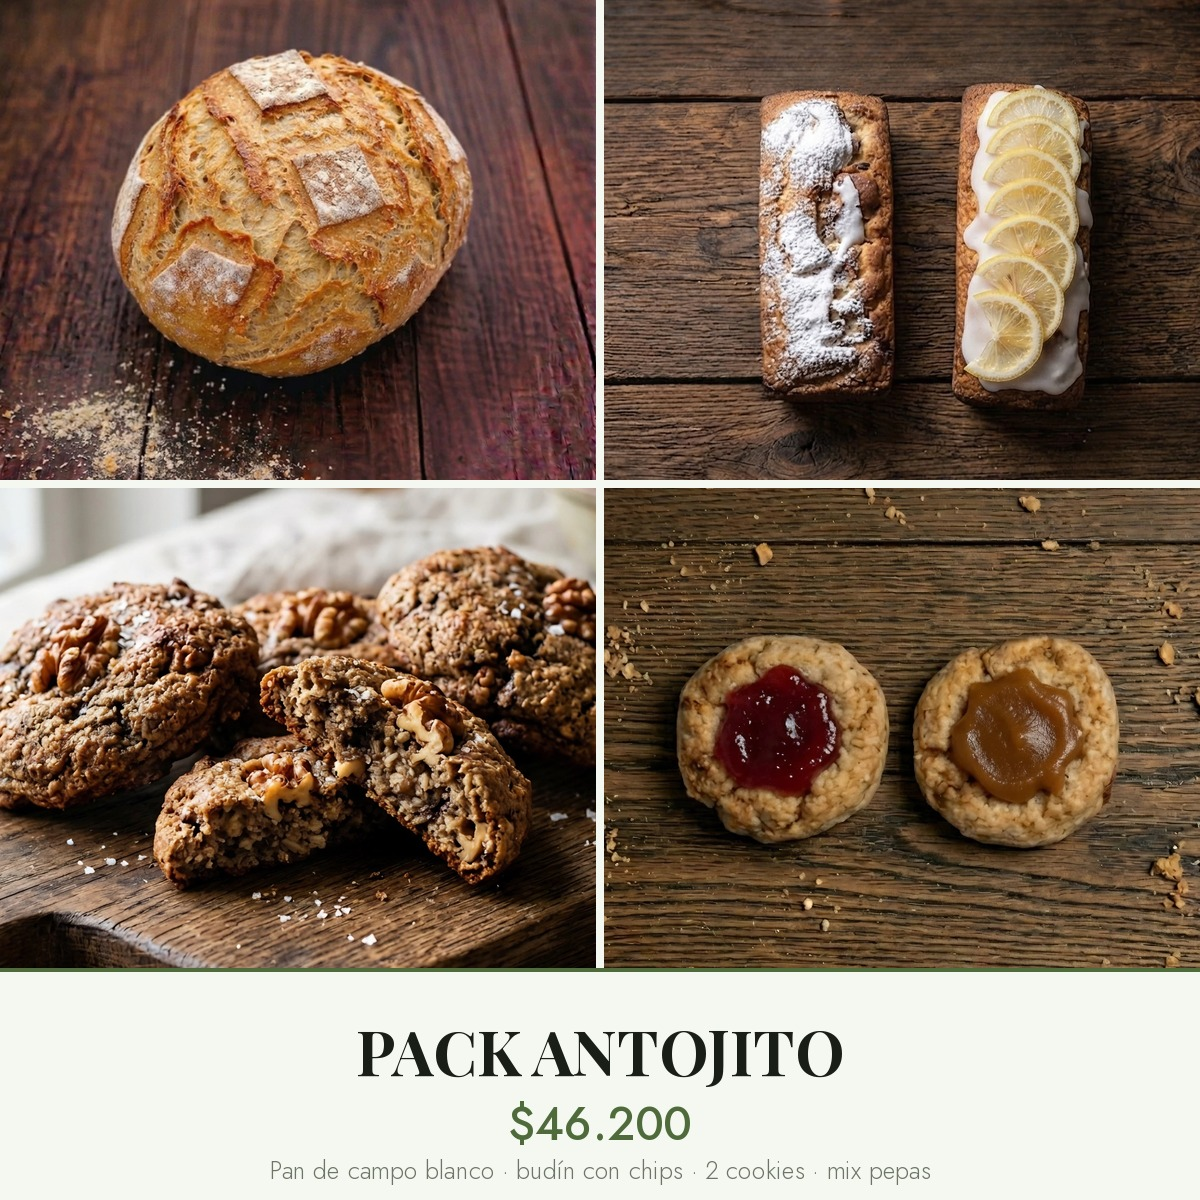
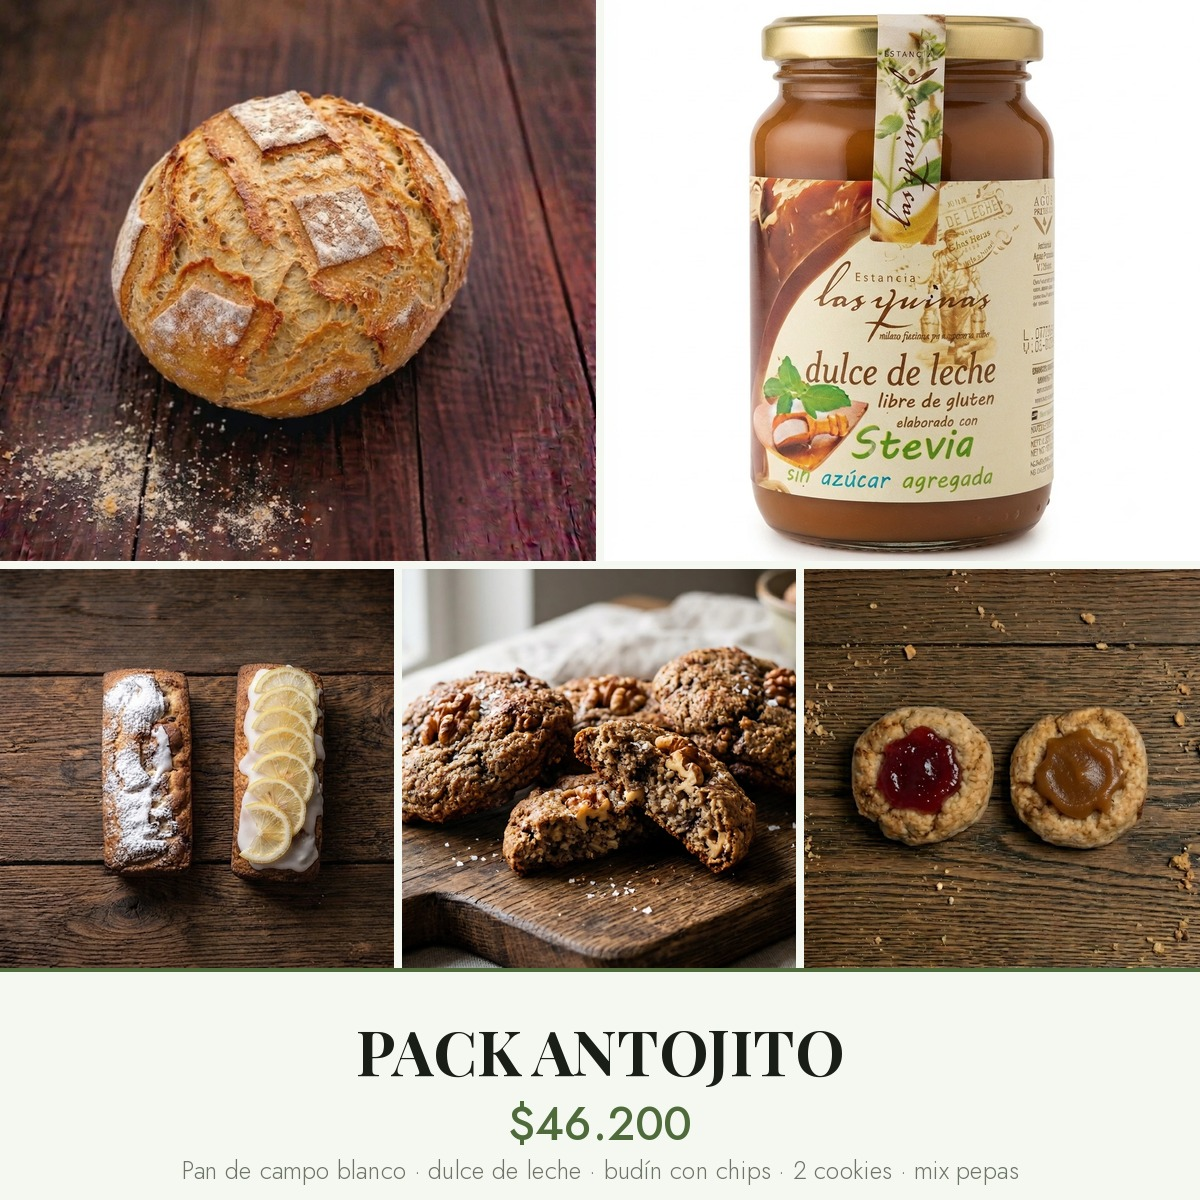
Completa las cinco fotos de los packs y detecta 23 productos agotados
Juan corrigio: los productos que faltaban estan publicados pero agotados,
y Tiendanube los oculta del listado. Con el sitemap aparecieron los 39 y
se pudieron completar los cinco collages, incluido el Pack para picar.

De ahi sale el hallazgo: la tienda muestra 16 productos a quien navega,
de 39 publicados. Si se lanza el 24 asi, el cliente de CABA ve una tienda
de 16 productos. Se suma al problema del inicio, que no muestra ninguno.

Lo mas urgente es la hogaza: es un panificado propio, los demas panes
figuran disponibles y ella no, y el Pack para picar lleva dos. Sin ella
ese pack no se puede vender y es el unico salado del lineup.

Del queso salieron dos datos: es un Gouda, o sea semiduro de maduracion,
lo que baja bastante la preocupacion por la cadena de frio; y el slug de
la URL todavia dice 450 g.

Y aparecieron dos productos que la memoria no tenia: el Laur aceite de
oliva 500ml y que el kefir y las kombuchas ya estan publicados.

Claude-Session: https://claude.ai/code/session_01WDg34Fefay5F9u1RxAnMAo

diff --git a/emprendimiento/textos/packs/generar-collages.py b/emprendimiento/textos/packs/generar-collages.py
@@ -122,6 +122,10 @@ COOKIES   = "cookies_integrales_con_chips_de_chocolat"
 GRISINES  = "grisines_integrales"
 BUDIN     = "budin"
 QUESO     = "queso_gouda_artesanal_el_capricho_400_g"
+HOGAZA    = "hogaza"
+ACEITUNAS = "aceitunas_verdes"
+HUMMUS    = "hummus"
+DDL       = "dulce_de_leche"
 
 packs = [
  ("Pack familiar", "$74.600",
@@ -134,11 +138,11 @@ packs = [
   "3 cookies integrales · budín con chips · prepizzas de tomate · mix pepas",
   [COOKIES, PREPIZZA, BUDIN, PEPAS], "pack-kids.jpg"),
  ("Pack antojito", "$46.200",
-  "Pan de campo blanco · budín con chips · 2 cookies · mix pepas",
-  [CAMPO_B, BUDIN, COOKIES, PEPAS], "pack-antojito.jpg"),
+  "Pan de campo blanco · dulce de leche · budín con chips · 2 cookies · mix pepas",
+  [CAMPO_B, DDL, BUDIN, COOKIES, PEPAS], "pack-antojito.jpg"),
  ("Pack para picar", "$51.500",
   "2 hogazas · queso gouda El Capricho · aceitunas verdes · grisines · hummus",
-  [QUESO, GRISINES], "pack-para-picar-PARCIAL.jpg"),
+  [HOGAZA, QUESO, ACEITUNAS, GRISINES, HUMMUS], "pack-para-picar.jpg"),
 ]
 print("Generando:")
 for n, p, c, a, s in packs:

diff --git a/emprendimiento/textos/packs/LEEME.md b/emprendimiento/textos/packs/LEEME.md
@@ -2,37 +2,51 @@
 
 *Armadas el 17/09/2026 con las fotos que ya están cargadas en la tienda.*
 
-Collages cuadrados de 1200×1200 (el formato de las fichas de Tiendanube), con la tipografía de la marca: **Playfair Display** para el nombre y **Jost** para el precio y el contenido.
+**Los cinco collages están listos.** Son cuadrados de 1200×1200 (el formato de las fichas de Tiendanube), con la tipografía de la marca: **Playfair Display** para el nombre y **Jost** para el precio y el contenido.
 
-| Archivo | Pack | Fotos usadas |
+| Archivo | Pack | |
 |---|---|---|
-| `pack-familiar.jpg` | Familiar · $74.600 | 6 de 6 ✅ |
-| `pack-semanal.jpg` | Semanal · $45.300 | 6 de 6 ✅ |
-| `pack-kids.jpg` | Kids · $43.000 | 4 de 4 ✅ |
-| `pack-antojito.jpg` | Antojito · $46.200 | 4 de 5 — falta el dulce de leche |
+| `pack-familiar.jpg` | Familiar · $74.600 | 6 fotos |
+| `pack-semanal.jpg` | Semanal · $45.300 | 6 fotos |
+| `pack-kids.jpg` | Kids · $43.000 | 4 fotos |
+| `pack-antojito.jpg` | Antojito · $46.200 | 5 fotos |
+| `pack-para-picar.jpg` | Para picar · $51.500 | 5 fotos |
 
-**Falta el del Pack para picar**, y no es por la foto: **tres de sus cinco productos no están publicados en la tienda** (ver abajo).
+`generar-collages.py` los rehace. Descarga las fotos de la tienda y las compone; si cambian las fotos de producto, se corre de nuevo.
 
-`generar-collages.py` rehace los cuatro. Descarga las fotos de la tienda a `fotos/` y las compone. Si cambian las fotos de producto, se corre de nuevo y listo.
+> ℹ **El de "para picar" queda menos parejo que los otros cuatro**, y es inevitable: tres de sus productos son de terceros y sus fotos son packshots de frasco sobre fondo blanco, mientras que el pan y el queso son fotos de ambiente. Se ve honesto y muestra exactamente lo que lleva, pero no tiene la cohesión de los packs 100% propios.
 
 ---
 
-## 🔴 Lo que apareció al buscar las fotos
+## 🔴 23 de los 39 productos están agotados, y Tiendanube los esconde
 
-**La tienda tiene 16 productos publicados con foto.** Cruzándolos contra los packs:
+**Este es el hallazgo que salió de buscar las fotos.** La tienda tiene **39 productos publicados** (están todos en el sitemap), pero el listado de `/productos/` muestra solo **16**: Tiendanube **oculta del listado los que están sin stock**.
 
-| Producto | ¿Está en la tienda? |
-|---|---|
-| **Hogaza** | ❌ **No existe** — 0 menciones, y `/productos/hogaza/` da 404 |
-| **Aceitunas verdes** | ❌ No publicada |
-| **Hummus de garbanzo** | ❌ No publicado |
-| **Dulce de leche** | ❌ No publicado |
+**Los 23 restantes existen, tienen ficha y tienen foto — pero nadie los encuentra navegando.**
 
-**La hogaza es el hallazgo serio:** está en `tabla-margenes.md` y en `perfil.md` a $11.500, se le acaba de actualizar el costo a $6.700, y **el Pack para picar lleva dos**. Pero **no está publicada en la tienda**. Sin ella el pack no se puede armar ni fotografiar.
+### Lo que eso significa para los packs
 
-Los otros tres son productos de terceros, que ya se sabía que estaban sin stock desde el 08/09.
+| Producto | Estado | Dónde pega |
+|---|---|---|
+| **Hogaza** | agotada | 🔴 **El Pack para picar lleva DOS** |
+| Aceitunas verdes | agotada | Pack para picar |
+| Hummus de garbanzos | agotado | Pack para picar |
+| Dulce de leche Las Quinas | agotado | Pack antojito |
 
-## 🧀 Y dos datos del queso
+**La hogaza es la que más preocupa: es un panificado propio**, no un producto de terceros. Los demás panes figuran disponibles y ella no. **Sin reponerla, el Pack para picar no se puede vender**, y es el único pack salado del lineup.
 
-1. **Es un Gouda.** El título en la tienda es *"Queso Gouda Artesanal El Capricho · 400 g"*. **El gouda es un queso semiduro de maduración**, que aguanta bastante mejor a temperatura ambiente que un fresco. **No reemplaza preguntarle al proveedor cuántas horas**, pero baja mucho la preocupación de la cadena de frío.
-2. **El slug de la URL quedó viejo:** `/productos/queso-semiduro-artesanal-el-capricho-450-g-1fb28/`. El título ya dice 400 g, la dirección todavía dice 450 g. No es grave, pero es lo que ve Google.
+⚠ **Y hay un efecto de vidriera más amplio:** si el 24 se lanza con 23 de 39 productos agotados, **el cliente de CABA que entra por primera vez ve una tienda de 16 productos**, no de 39. Se cruza con el problema de la página de inicio, que ya no muestra ninguno.
+
+---
+
+## 🧀 Dos datos del queso
+
+1. **Es un Gouda.** El título en la tienda es *"Queso Gouda Artesanal El Capricho · 400 g"*. **El gouda es un queso semiduro de maduración**, que aguanta bastante mejor a temperatura ambiente que uno fresco. **No reemplaza preguntarle al proveedor cuántas horas**, pero baja mucho la preocupación de la cadena de frío.
+2. **El slug de la URL quedó viejo:** `/productos/queso-semiduro-artesanal-el-capricho-450-g-1fb28/`. El título ya dice 400 g, la dirección todavía dice 450 g.
+
+## Y dos productos del sitemap que la memoria no tenía
+
+- **Laur Aceite de Oliva Extra Virgen Gran Mendoza 500ml** — no está en `tabla-margenes.md`, que solo tiene el Zuelo de 250ml.
+- **Kéfir de agua** (tradicional e hibiscus) y las dos **kombuchas** ya están publicados, aunque seguían anotados como pendientes de cargar.
+
+Todo esto refuerza lo ya anotado: **hace falta un export nuevo de Tiendanube** para rehacer la tabla de márgenes.

diff --git a/emprendimiento/bitacora.md b/emprendimiento/bitacora.md
@@ -2,6 +2,38 @@
 
 Registro con fecha de decisiones, avances y charlas importantes. Las entradas más nuevas van arriba.
 
+## 17/09/2026 (7) — Las fotos de los packs, y 23 productos escondidos
+
+Se armaron los **cinco collages de los packs** con las fotos que ya están en la tienda: cuadrados de 1200×1200, con Playfair para el nombre y Jost para el precio. Quedaron en `textos/packs/`, junto con el script que los rehace.
+
+### El hallazgo: la tienda muestra 16 productos de 39
+
+Buscando las fotos apareció que **el listado de `/productos/` muestra solo 16**, mientras que el sitemap tiene **39**. **Tiendanube oculta del listado los productos agotados.** Los 23 restantes existen, tienen ficha y tienen foto, pero nadie los encuentra navegando.
+
+*(Primero se concluyó que la hogaza directamente no existía en la tienda. Juan corrigió: están publicados pero agotados. Con el sitemap aparecieron todos y se pudieron completar los cinco collages.)*
+
+| Producto agotado | Dónde pega |
+|---|---|
+| **Hogaza** | 🔴 **el Pack para picar lleva DOS** |
+| Aceitunas verdes · Hummus | Pack para picar |
+| Dulce de leche | Pack antojito |
+
+> 🔴 **La hogaza es lo que más preocupa, porque es un panificado propio.** Los demás panes figuran disponibles y ella no. **Sin reponerla el Pack para picar no se puede vender**, y es el único salado de los cinco.
+>
+> ⚠ **Y hay un efecto de vidriera más amplio:** si se lanza el 24 con 23 de 39 productos agotados, **el cliente de CABA que entra por primera vez ve una tienda de 16 productos.** Se suma al problema del inicio, que no muestra ninguno.
+
+### 🧀 Y dos datos del queso que resuelven cosas abiertas
+
+**Es un Gouda** — *"Queso Gouda Artesanal El Capricho · 400 g"*. **El gouda es semiduro de maduración, así que aguanta mucho mejor a temperatura ambiente que un queso fresco.** No reemplaza preguntarle al proveedor cuántas horas aguanta, pero **baja bastante la preocupación por la cadena de frío** que se venía arrastrando desde el 15/09.
+
+**Y el slug de la URL todavía dice 450 g** aunque el título ya diga 400. Ahí estaba lo que Juan había mencionado.
+
+### Dos productos que la memoria no tenía
+
+Del sitemap salieron el **Laur Aceite de Oliva Extra Virgen 500ml** —que no está en `tabla-margenes.md`, donde solo figura el Zuelo de 250ml— y que **el kéfir y las kombuchas ya están publicados**, aunque seguían anotados como pendientes de cargar. **Refuerza que hace falta un export nuevo.**
+
+---
+
 ## 17/09/2026 (6) — El 1% de Tiendanube ya está adentro del 7%: el modelo no le faltaba nada
 
 Juan confirmó que **el 1% de comisión de plataforma del plan Esencial está incluido dentro del 7%** que usa el modelo.

diff --git a/emprendimiento/pendientes.md b/emprendimiento/pendientes.md
@@ -12,6 +12,10 @@ Tareas y temas abiertos. Ordenados por prioridad. Limpiado el 14/08/2026. Últim
 
 ### 🔴 Lo primero, antes de fijar cualquier fecha
 
+- [ ] 🔴 **23 de los 39 productos están agotados, y Tiendanube los oculta del listado.** *(Detectado el 17/09 al buscar las fotos de los packs.)* La tienda muestra **16 productos** a quien navega; los otros 23 existen y tienen ficha, pero no aparecen. **Si se lanza así, el cliente de CABA ve una tienda de 16 productos, no de 39.** Se cruza con el problema del inicio, que no muestra ninguno.
+  - [ ] 🔴 **Reponer la HOGAZA.** Es un **panificado propio** —los demás panes figuran disponibles y ella no— y **el Pack para picar lleva dos**. Sin ella ese pack no se puede vender, y es el único salado del lineup.
+  - [ ] Reponer aceitunas verdes, hummus y dulce de leche, que son los otros tres que usan los packs.
+
 - [x] ~~🔴 **Corregir dos precios antes de cargar los packs.**~~ → ✅ **Hecho el 17/09.** Juan los rehizo sumando un mix pepas al Semanal ($45.300) y otro al Antojito ($46.200). **Los cinco cierran contra el catálogo y superan los $40.000.**
 - [ ] ~~(referencia de lo que estaba mal)~~ **Corregir dos precios antes de cargar los packs.** *(Detectado el 15/09.)* Al chequear los cinco packs contra el catálogo aparecieron dos cruces de precios, y **cada uno deja un pack abajo del umbral de $40.000**:
   - **Grisines cargados a $6.300** (en Semanal y en Picar); el catálogo dice **$4.600**. Sin esa diferencia, **el Pack semanal queda en $39.000**. → Se le suma un segundo grisines: **$43.600**.
